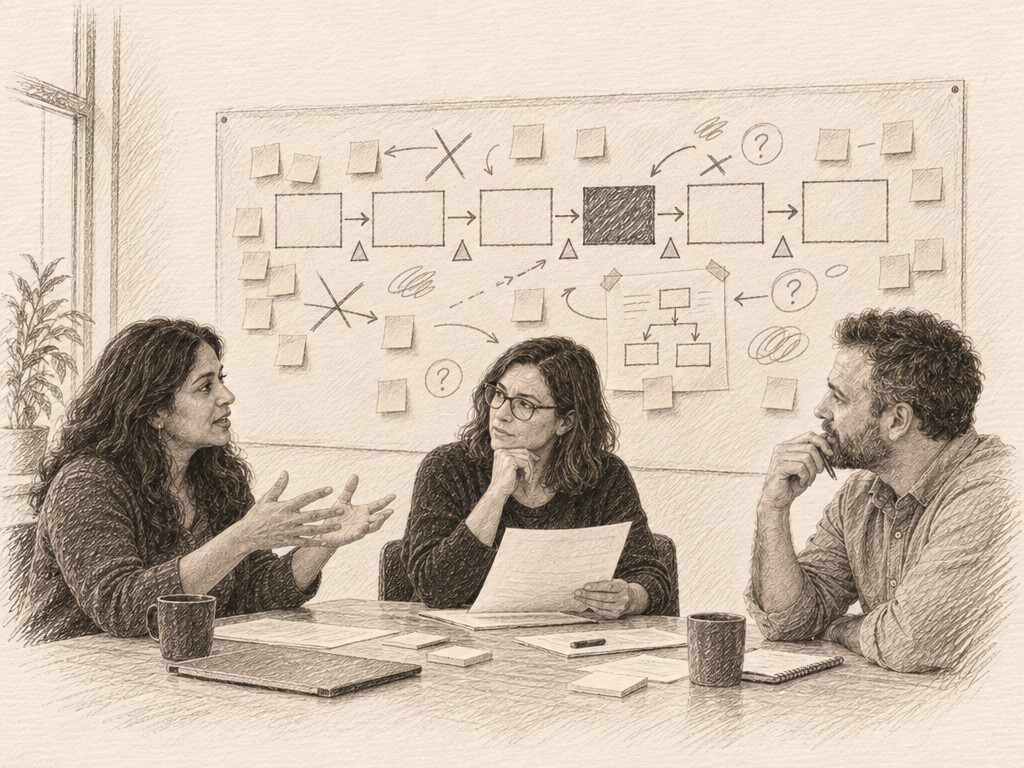
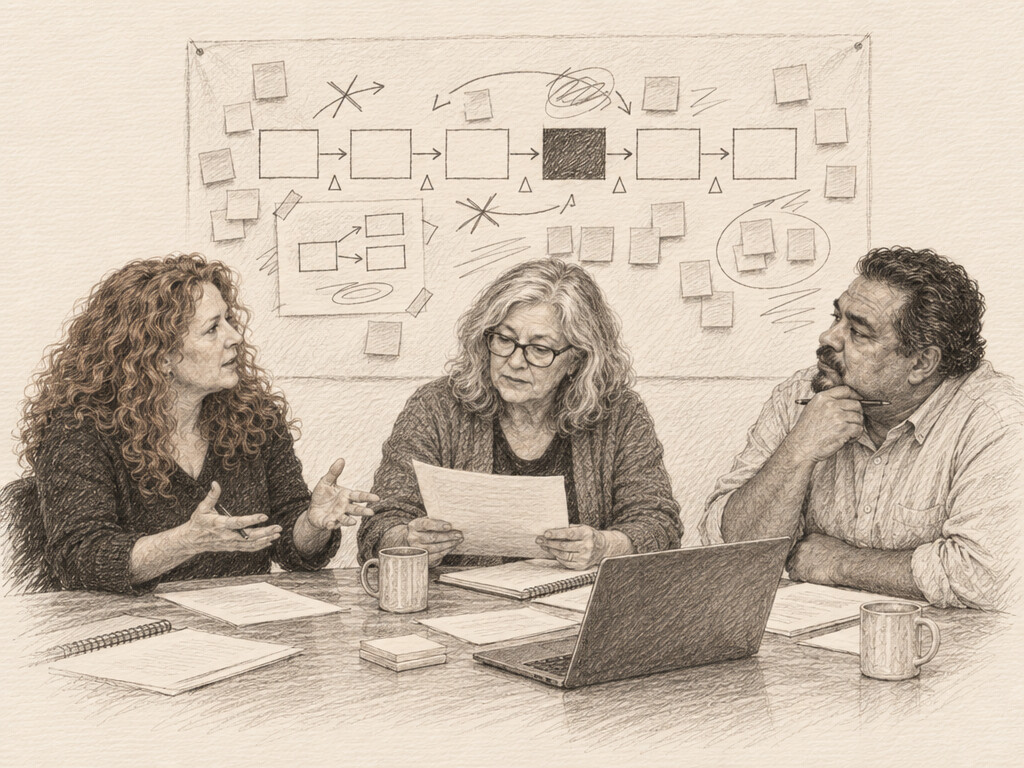
Say what leadership becomes; take the founder out of the consulting scenes
Add the leadership position, extend the cover index to it, and name why rules go unwritten. Redraw See, Declare and Refactor with the client's people only; the founder appears only in his portrait. Document both rules.

diff --git a/PRODUCT.md b/PRODUCT.md
@@ -36,6 +36,8 @@ now. It is not a portfolio, a services menu, or a résumé.
 
 - Every organization runs twice: as declared, and as it operates.
 - Unwritten authority cannot be delegated.
+- Much of management was carrying decisions between people who could not see
+  the whole.
 - Agents inherit every definition at once.
 - Speed and correctness stopped being a trade.
 
@@ -64,6 +66,19 @@ must leave the reader wanting the next.
   Selectivity, if stated, is policy.
 - **No selling.** Consulting appears only as the contact. No engagements
   section, no services list, no tiers, no per-product asks.
+
+## Say the unsaid, with dignity
+
+The buyer is an executive who has seen every operating model and change
+program. Hype and threat both read as amateur. What lands is the plain truth
+they already suspect:
+
+- Some rules go unwritten because there was too much to write; some because no
+  one wanted to say them. Name both, once, as mechanism.
+- Making the organization explicit changes management. Say what coordination
+  was and what leadership remains, with no villains and no flattery. The
+  reader should recognize the work they already wished they were doing.
+- State consequences plainly; never perform candor.
 
 ## Show, don't tell
 

diff --git a/DESIGN.md b/DESIGN.md
@@ -94,9 +94,9 @@ calmly, its old meeting room empty behind it (Scale).
 - **Tone means automation.** In every drawn map a pale step is done by hand and
   a dark step runs on its own. The balance holds through Declare however much
   the map is argued over, and turns in Refactor. It is never labelled.
-- The founder appears only as the facilitator (See, Declare, from behind in
-  Refactor), never in Prototype or Scale, where the client's organization is
-  the subject.
+- The founder appears only in the founder portrait, never in a consulting
+  scene. The scenes show the client's people and teams at work; a recurring
+  face would read as a one-person shop.
 - On wide screens the loop is the control. The next stage's balloon carries
   the red node; visited stages keep an ink ring. Each stage's text ends in the
   question that advances it.

diff --git a/src/content/positions/03-leadership.md b/src/content/positions/03-leadership.md
@@ -1,0 +1,21 @@
+---
+sheet: 3
+short: What leadership becomes
+position: Much of management was carrying decisions between people who could not see the whole.
+consequence: When the organization is explicit, what remains is what was always leadership.
+proof:
+  - kind: table
+    columns: [Coordination, Leadership]
+    rows:
+      - [
+          Relaying intent down the chain,
+          "Writing intent once, where every system acts on it",
+        ]
+      - [Carrying status back up, Reading the state of the work directly]
+      - [
+          Approving what the edge could decide,
+          Setting the limits the edge decides within,
+        ]
+      - [Reconciling versions of the truth, Owning the one definition]
+    live: [2, 1]
+---

diff --git a/brand/illustrations/README.md b/brand/illustrations/README.md
@@ -11,9 +11,9 @@ paper.
 
 Each prompt is `style.txt` (the shared medium and rules) plus its scene. The
 Declare session thumbnails pass `declare-main.png` as a second reference so the
-room and map stay the same. Prompts for Prototype and Scale describe their
-people explicitly so the founder's likeness does not carry over from the
-reference.
+room and map stay the same. Every scene prompt describes its people explicitly
+and says none resembles the man in the reference, so the founder's likeness
+never carries over: he appears only in his portrait.
 
 Finished images live in `src/assets/consulting/` as JPEG masters; Astro serves
 them as AVIF/WebP. The key is read from the repo's `.env` (`OPENAI_API_KEY`),

diff --git a/src/content/positions/05-correct-by-construction.md b/src/content/positions/05-correct-by-construction.md
@@ -1,5 +1,5 @@
 ---
-sheet: 4
+sheet: 5
 short: Correct by construction
 position: Speed and correctness stopped being a trade.
 consequence: Agents write strict code at full speed.

diff --git a/src/content/positions/04-one-meaning.md b/src/content/positions/04-one-meaning.md
@@ -1,5 +1,5 @@
 ---
-sheet: 3
+sheet: 4
 short: One meaning
 position: Agents inherit every definition at once.
 proof:
